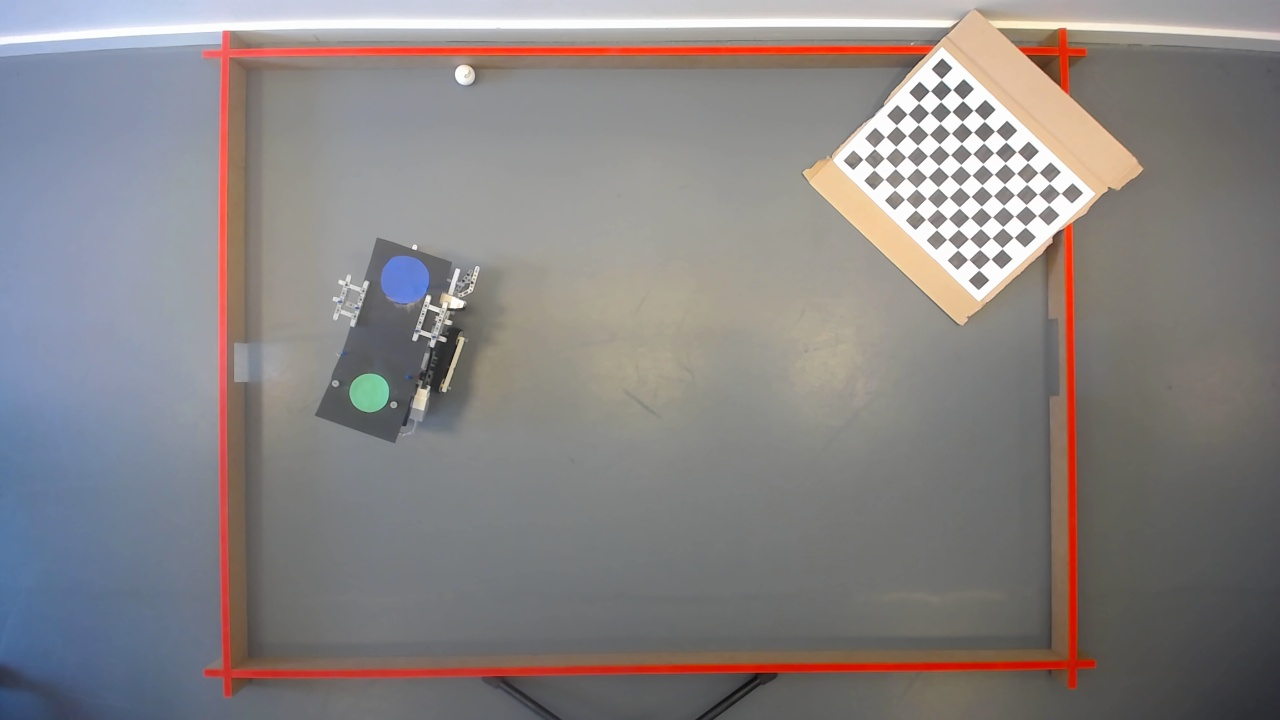
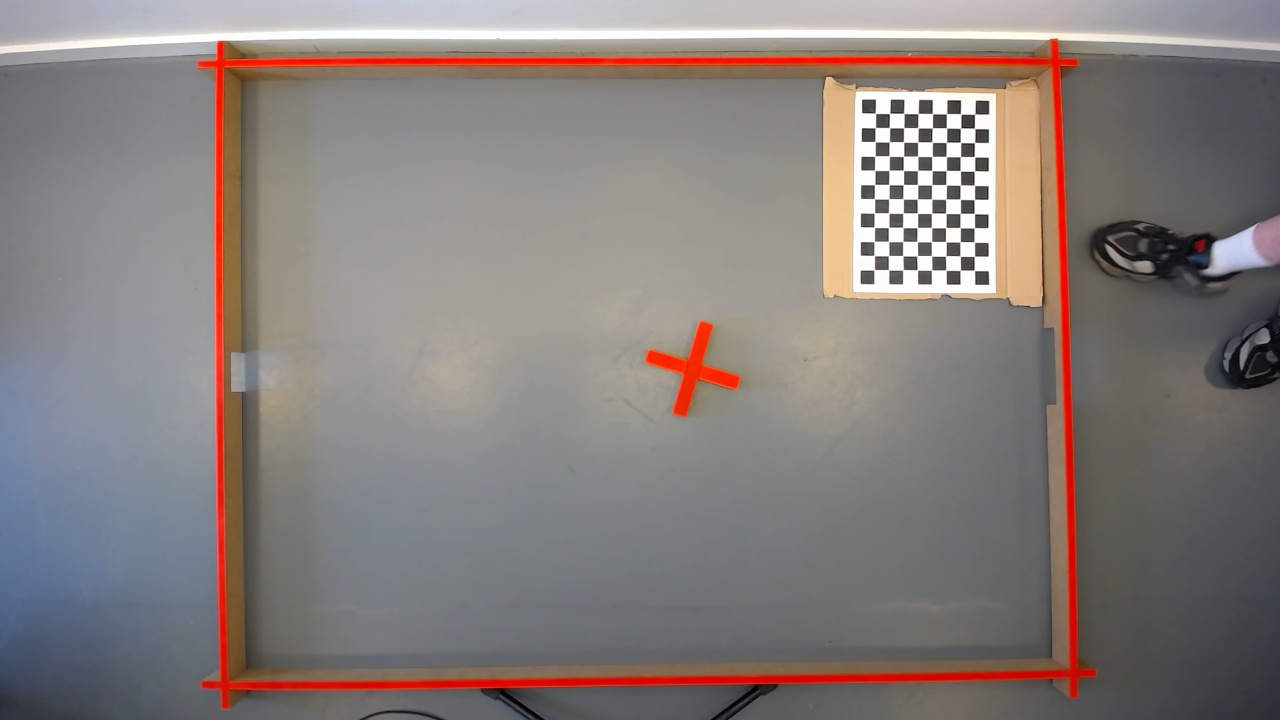
Calibration photos updated update in pathfinding and tests an Some in detectBalls.py from seburu

diff --git a/Pathfinder.py b/Pathfinder.py
@@ -244,13 +244,6 @@ def collect_balls(state):
         nearest_ball, distance_to_nearest_ball = find_nearest_ball(front_pos, state.balls)
         state.goal_ball = nearest_ball
     distance_to_goal_ball = distance_to_point(front_pos, state.goal_ball)
-    if is_ball_near_wall(front_pos, back_pos, state.goal_ball, state.corners) is not DIRECTION_NOT_NEAR:
-        is_aligned, is_aligned_move = wall_robot_align(front_pos, back_pos, state.goal_ball, state.corners)
-        if is_aligned or state.has_wall_alignment_been_done:
-            state.has_wall_alignment_been_done = True
-            return move_to_wall_ball(front_pos, back_pos, state.goal_ball, state)
-        else:
-            return is_aligned_move
     print("Back: ", str(back_pos))
     print("Front: ", str(front_pos))
     print("Closest ball: ", str(state.goal_ball))
@@ -259,30 +252,31 @@ def collect_balls(state):
                                    ball_pos=state.goal_ball)
     print(angle_to_turn)
 
-    if angle_to_turn > 1 or angle_to_turn < -5:
+    if angle_to_turn > 5 or angle_to_turn < -15:
         print("I should turn: " + str(angle_to_turn))
-        print(str(angle_to_turn) + " degrees")
         return Moves.MoveClass(MoveTypes.TURN, 500, angle_to_turn)
     else:
         if distance_to_goal_ball > 300:
-            return Moves.MoveClass(MoveTypes.FORWARD, 500, distance_to_goal_ball / 2)
+            return Moves.MoveClass(MoveTypes.FORWARD, 500, distance_to_goal_ball * 1.8)
         else:
             state.goal_ball = None
             state.need_new_detect_balls = True
             state.ball_amount_guess = state.ball_amount_guess + 1
             state.has_wall_alignment_been_done = False
-            if state.ball_amount_guess == 5:
+            if should_the_robot_deliver(state):
                 state.mode = robot_modes.DELIVER
                 state.ball_amount_guess = 0
-            return Moves.MoveClass(MoveTypes.FORWARD, 500, calculate_drive_distance(distance_to_goal_ball) + 30)
+            return Moves.MoveClass(MoveTypes.FORWARD, 500, calculate_drive_distance(distance_to_goal_ball) * 1.5)
 
 
+# This method decides if the robot should deliver the balls or continue trying to collect them
 def should_the_robot_deliver(state):
     balls = detectBalls.detect_balls()
     if balls is None:
         return True
-    if state.ball_amount_guess + 3 + len(balls) > state.non_delivered_balls:
-        return True
+    if state.ball_amount_guess == 5:
+        if state.ball_amount_guess + len(balls) > state.non_delivered_balls:
+            return True
     return False
 
 
@@ -327,7 +321,7 @@ def drive_back_to_goal(front_pos, back_pos, state, goal):
 def deliver(front_pos, back_pos, state, goal):
     # Here I am calculating the angle reverse of usual because the back needs to line up instead of the front
     angle_to_goal = calculate_turn(front_pos, back_pos, goal)
-    if 3 > angle_to_goal > -3:
+    if 1 > angle_to_goal > -1:
         # Now the robot will deliver the balls and go back to collect mode and reset is delivery_mode
         state.mode = robot_modes.COLLECT
         state.delivery_mode = robot_modes.AT_RANDOM_PLACE
@@ -474,14 +468,12 @@ def move_to_wall_ball(front_pos, back_pos, ball_location, state):
         return Moves.MoveClass(MoveTypes.TURN, 500, turn_align_ball)
     if distance_to_ball > 400:
         return Moves.MoveClass(MoveTypes.FORWARD, 500, distance_to_ball * 1.5)
-
     state.goal_ball = None
     state.need_new_detect_balls = True
     state.ball_amount_guess = state.ball_amount_guess + 1
-    if state.ball_amount_guess == 5:
-        state.mode = robot_modes.DELIVER
-        state.ball_amount_guess = 0
-    return Moves.MoveClass(MoveTypes.FORWARD, 500, distance_to_ball * 2)
+    state.has_wall_alignment_been_done = False
+    should_the_robot_deliver(state)
+    return Moves.MoveClass(MoveTypes.FORWARD, 500, distance_to_ball * 2 + 20)
 
 
 # To make sure the robot is aligned with the ball either horizontally or vertically depending on ball location
@@ -508,10 +500,10 @@ def wall_robot_align(front_pos, back_pos, ball_location, corners):
             turn_pos = (ball_location[0], robot_center[1])
             turn_align_pos = calculate_turn(back_pos, front_pos, turn_pos)
             dist_pos_align = distance_to_point(front_pos, turn_pos)
-            if turn_align_pos <= 5 or turn_align_pos >= -5:
+            if turn_align_pos >= 4 or turn_align_pos <= -4:
                 print("i have to turn 123 : ", turn_align_pos)
                 return False, Moves.MoveClass(MoveTypes.TURN, 500, turn_align_pos)
-            if 5 > turn_align_pos > -5:
+            if 4 > turn_align_pos > -4:
                 print("i have to move: ", dist_pos_align)
                 return False, Moves.MoveClass(MoveTypes.FORWARD, 500, dist_pos_align * 2 + 20)
 

diff --git a/imageReader.py b/imageReader.py
@@ -1,7 +1,7 @@
 import cv2 as cv
 # Simple file for capturing and saving an image in the same fashion as the image will be captured in the final display.
 print("Starting")
-videoCapture = cv.VideoCapture(1, cv.CAP_DSHOW)
+videoCapture = cv.VideoCapture(0, cv.CAP_DSHOW)
 videoCapture.set(cv.CAP_PROP_FRAME_WIDTH, 1280)
 videoCapture.set(cv.CAP_PROP_FRAME_HEIGHT, 720)
 list1 = [0]

diff --git a/Calibration/take_photo.py b/Calibration/take_photo.py
@@ -1,7 +1,7 @@
 import cv2 as cv
 # Simple file for capturing and saving an image in the same fashion as the image will be captured in the final display.
 print("Starting")
-videoCapture = cv.VideoCapture(1, cv.CAP_DSHOW)
+videoCapture = cv.VideoCapture(0, cv.CAP_DSHOW)
 videoCapture.set(cv.CAP_PROP_FRAME_WIDTH, 1280)
 videoCapture.set(cv.CAP_PROP_FRAME_HEIGHT, 720)
 

diff --git a/detectBalls.py b/detectBalls.py
@@ -37,7 +37,7 @@ def detect_balls():
             cv.HOUGH_GRADIENT,
             1,
             20,
-            param1=70,
+            param1=50,
             param2=12,
             minRadius=8,
             maxRadius=11

diff --git a/VariousTests/detect_robot_test.py b/VariousTests/detect_robot_test.py
@@ -1,4 +1,5 @@
 import detectRobot
+
 front, back = detectRobot.detect_robot()
 
 print("The front of the robot was found as: ", front)
